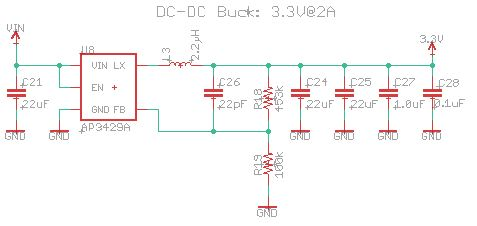
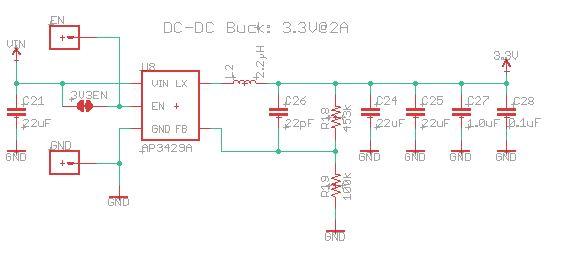
Updated the Artemis pins and buck reg EN details

Changed region(s): [[0.0, 0.031, 0.9686, 0.9602]]

diff --git a/Documentation/Hardware_Overview/ARTEMIS_PINS.md b/Documentation/Hardware_Overview/ARTEMIS_PINS.md
@@ -8,33 +8,33 @@
 | 4 | GPIO39 | ~D39 | Qwiic SCL |
 | 5 | GPIO40 | D40 | Qwiic SDA |
 | 6 | GPIO9 | D9 | ZOE-M8Q SDA |
-| 7 | BOOT | | Bootload Hold pin high during reset to initiate bootloader |
-| 8 | GPIO10 | D10 | ZOE-M8Q PIO15 (Geofence Alert) |
+| 7 | BOOT | | Bootload. Hold pin high during reset to initiate bootloader |
+| 8 | GPIO10 | D10 | ZOE-M8Q PIO14 (Geofence Alert) |
 | 9 | GPIO48 | TX0 | Bootload TX pin for serial bootloading |
 | 10 | GPIO21 | SWDIO | JTAG single wire I/O |
 | 11 | GPIO8 | D8 | ZOE-M8Q SCL |
 | 12 | GPIO5 | ~D5 | SCK |
-| 13 | GPIO7 | D7 | MOSI |
-| 14 | GPIO35 | ~AD35 | SPI_CS1 |
-| 15 | GPIO4 | ~D4 | SPI_CS2 |
+| 13 | GPIO7 | ~D7 | MOSI |
+| 14 | GPIO35 | ~AD35 | SPI CS(1) |
+| 15 | GPIO4 | ~D4 | SPI CS(2) or external WAKE interrupt |
 | 16 | GPIO24 | ~D24 | Iridium 9603N TX(In) |
 | 17 | GPIO22 | ~D22 | AD4210 ON |
-| 18 | GPIO23 | ~D23 | |
+| 18 | GPIO23 | ~D23 | N/C |
 | 19 | GPIO27 | ~D27 | LTC3225 SHDN |
-| 20 | GPIO14 | D14 | |
+| 20 | GPIO14 | D14 | N/C |
 | 21 | GPIO28 | ~D28 | LTC3225 PGOOD |
 | 22 | GND | | Power |
 | 23 | GPIO6 | ~D6 | MISO |
-| 24 | GPIO32 | ~AD32 | |
+| 24 | GPIO32 | ~AD32 | N/C |
 | 25 | GPIO25 | ~D25 | Iridium 9603N RX(Out) |
-| 26 | GPIO12 | ~AD12 | |
+| 26 | GPIO12 | ~AD12 | N/C |
 | 27 | GPIO26 | ~D26 | GPS_EN |
 | 28 | GPIO13 | ~AD13 | Bus Voltage Measure |
-| 29 | GPIO15 | D15 | |
+| 29 | GPIO15 | D15 | N/C |
 | 30 | GPIO33 | ~AD33/SWO | JTAG SWO |
 | 31 | GPIO34 | AD34 | Bus Voltage Measure Enable |
-| 32 | GPIO11 | ~AD11 | |
-| 33 | GPIO29 | ~AD29 | |
+| 32 | GPIO11 | ~AD11 | N/C |
+| 33 | GPIO29 | ~AD29 | N/C |
 | 34 | XO | | 32kHz Xtal Connection for external 32.768kHz RTC crystal |
 | 35 | XI | | 32kHz Xtal Connection for external 32.768kHz RTC crystal |
 | 36 | VDD | | Power |
@@ -43,21 +43,21 @@
 | 39 | GND | | Power |
 | 40 | GPIO19 | ~D19 | LED |
 | 41 | GPIO18 | ~D18 | Iridium 9603N Network Available |
-| 42 | GPIO16 | AD16 | |
+| 42 | GPIO16 | AD16 | N/C |
 | 43 | GPIO17 | D17 | Iridium 9603N ON/OFF |
-| 44 | GPIO31 | ~AD31 | |
+| 44 | GPIO31 | ~AD31 | N/C |
 | 45 | GPIO41 | D41 | Iridium 9603N Ring Indicator |
-| 46 | GPIO45 | ~D45 | |
+| 46 | GPIO45 | ~D45 | N/C |
 | 47 | GND | | Power |
-| 48 | GPIO2 | D2 | |
-| 49 | GPIO1 | D1 | |
+| 48 | GPIO2 | D2 | N/C |
+| 49 | GPIO1 | D1 | N/C |
 | 50 | nRESET | | System Reset Pull pin low to reset system |
-| 51 | GPIO0 | D0 | |
-| 52 | GPIO43 | ~D43 | |
-| 53 | GPIO42 | ~D42 | Wake |
-| 54 | GPIO3 | D3 | |
-| 55 | GPIO36 | D36 | |
-| 56 | GPIO38 | D38 | |
-| 57 | GPIO37 | ~D37 | |
-| 58 | GPIO44 | ~D44 | |
+| 51 | GPIO0 | D0 | N/C |
+| 52 | GPIO43 | ~D43 | N/C |
+| 53 | GPIO42 | ~D42 | N/C |
+| 54 | GPIO3 | D3 | N/C |
+| 55 | GPIO36 | D36 | N/C |
+| 56 | GPIO38 | D38 | N/C |
+| 57 | GPIO37 | ~D37 | N/C |
+| 58 | GPIO44 | ~D44 | N/C |
 | 59 | GND | | Power |

diff --git a/Documentation/Hardware_Overview/README.md b/Documentation/Hardware_Overview/README.md
@@ -62,6 +62,11 @@ depleting the batteries during sleep.
 
 ![Buck_Reg](https://github.com/PaulZC/Artemis_Iridium_Tracker/blob/master/img/Buck_Reg.JPG)
 
+If you want to completely disable the buck regulator to minimise the current draw, you can do so by opening the 3V3EN split pad. The EN pin can then be used to enable/disable the regulator.
+Pull EN low to disable the regulator, pull it up to VIN (labelled as VBUS on J4) to enable it. EN could be driven by a logic signal from an external timer circuit.
+
+![Buck_Reg_EN](https://github.com/PaulZC/Artemis_Iridium_Tracker/blob/master/img/Buck_Reg_EN.JPG)
+
 ## ZOE-M8Q
 
 GNSS data is provided by the u-blox ZOE-M8Q as used on the [SparkFun GPS Breakout - ZOE-M8Q](https://www.sparkfun.com/products/15193).
